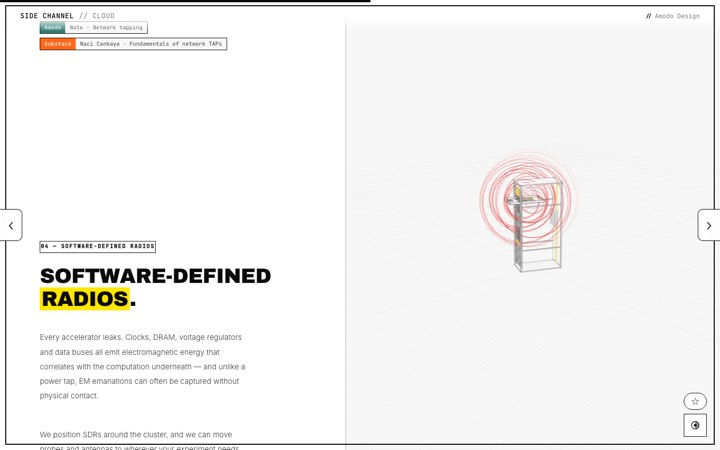
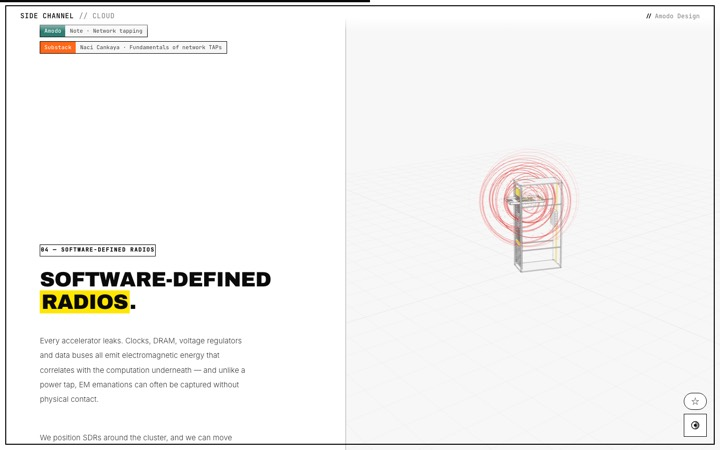
Hero tray wireframe + scroll cue; hide browse arrows on Channels
- Hero: replace the descriptive paragraphs with a rotating NVL72
  compute-tray wireframe below the title, plus a "Scroll to explore ↓"
  cue that jumps to the About section.
- Channels (brutal-multi): hide the left/right design-browse arrows.

diff --git a/src/styles/style.css b/src/styles/style.css
@@ -477,3 +477,21 @@ h1, h2, h3 { font-family: var(--display); font-weight: 300; color: var(--cream);
   position: static; transform: none; opacity: 1 !important; pointer-events: auto;
   width: 100%; max-width: 500px; align-self: flex-start;
 }
+
+/* Hero tray wireframe + scroll cue */
+.hero-tray { width: 100%; max-width: 620px; height: 380px; margin: 16px 0 4px; }
+.hero-tray canvas { width: 100%; height: 100%; display: block; cursor: grab; }
+.hero-tray canvas:active { cursor: grabbing; }
+.scroll-cue {
+  align-self: flex-start; margin-top: 10px; cursor: pointer;
+  background: none; border: none; padding: 4px 0;
+  font-family: var(--mono); font-size: 13px; letter-spacing: 0.16em; text-transform: uppercase;
+  color: var(--text-dim); display: inline-flex; align-items: center; gap: 12px; transition: color 0.2s;
+}
+.scroll-cue:hover { color: var(--cream); }
+.scroll-cue span { font-size: 16px; animation: cue-bounce 1.5s ease-in-out infinite; }
+@keyframes cue-bounce { 0%, 100% { transform: translateY(0); } 50% { transform: translateY(5px); } }
+[data-theme^="brutal-"] .scroll-cue { font-weight: 700; color: #0a0a0a; }
+
+/* Channels (brutal-multi): hide the design browse arrows */
+[data-theme="brutal-multi"] .theme-arrow { display: none; }

diff --git a/src/scripts/scroll-site.js b/src/scripts/scroll-site.js
@@ -29,6 +29,20 @@ viewer.setModel(ctrl);
 viewer.frame(4.0); // start zoomed out — the rack sits small in the stage
 attachDragHint(stage, canvas);
 
+// Hero tray wireframe (left column, below the title)
+const trayCanvas = document.getElementById('hero-tray-canvas');
+if (trayCanvas) {
+  const trayViewer = new Viewer(trayCanvas, {
+    autoRotate: true, autoRotateSpeed: 0.7, bloom: false, floor: false, autoPause: true,
+  });
+  trayViewer.setModel(wireify(build('nvl72-compute-tray').group));
+  trayViewer.frame(1.05);
+}
+// Scroll cue jumps to the About section
+document.getElementById('scroll-cue')?.addEventListener('click', () => {
+  document.querySelector('.section.explainer')?.scrollIntoView({ behavior: 'smooth' });
+});
+
 // Abstract representation mode (per-theme): points / exploded / ascii / ortho / flux
 const activeMode = theme.stageMode || 'wire';
 const adapter = createStageAdapter(activeMode, { viewer, ctrl, stage });
